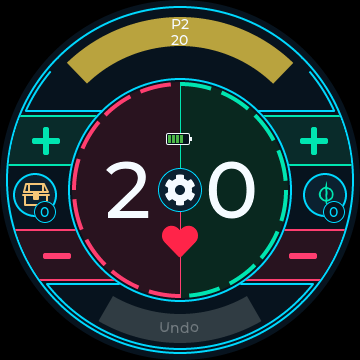
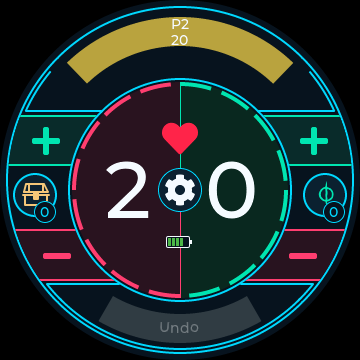
Refine name keyboard and personalize multiplayer life face

Changed region(s): [[0.4278, 0.6111, 0.55, 0.7333], [0.4278, 0.3361, 0.55, 0.4278]]

diff --git a/tests/ui_tests.cpp b/tests/ui_tests.cpp
@@ -44,7 +44,7 @@ lv_obj_t* find(lv_obj_t* parent,const std::string& text) {
 void click(const std::string& text) {
  tick();auto* target=find(lv_screen_active(),text);auto* wedgeLabel=(text.size()==2&&text[0]=='P'&&text[1]>='2'&&text[1]<='6')?target:nullptr;check(target!=nullptr,"missing label: "+text);auto* labelTarget=target;bool wedge=target==wedgeLabel||text=="New Game"||text=="Flip Coin"||text=="Roll"||text=="End Game"||text=="Brightness";
  while(target && !lv_obj_check_type(target,&lv_button_class))target=lv_obj_get_parent(target);
- check(target!=nullptr,"no button for: "+text);wedge=wedge||((lv_obj_get_width(target)==300||lv_obj_get_width(target)==326)&&lv_obj_get_height(target)==lv_obj_get_width(target));
+ check(target!=nullptr,"no button for: "+text);wedge=wedge||((lv_obj_get_width(target)==300||lv_obj_get_width(target)==326||lv_obj_get_width(target)==340)&&lv_obj_get_height(target)==lv_obj_get_width(target));
  lv_obj_scroll_to_view_recursive(target,LV_ANIM_OFF);lv_obj_update_layout(lv_screen_active());tick();
  lv_area_t a;lv_obj_get_coords(wedge?labelTarget:target,&a);int x=(a.x1+a.x2)/2,y=(a.y1+a.y2)/2;
  check(x>=0&&x<size&&y>=0&&y<size,"offscreen button: "+text);
@@ -57,6 +57,7 @@ lv_obj_t* labelAt(lv_obj_t* parent,int x,int y) {
 void checkDeath(const std::string& reason) {
  auto* skull=find(lv_screen_active(),"\xef\x95\x8c");auto* explanation=find(lv_screen_active(),reason);
  check(skull&&explanation,"skull and defeat reason present");
+ lv_area_t marker;lv_obj_get_coords(skull,&marker);check(marker.y1==120&&marker.y2<168,"skull uses the new upper heart position");
  check(lv_color_eq(lv_obj_get_style_text_color(skull,0),lv_color_white())&&lv_color_eq(lv_obj_get_style_text_color(explanation,0),lv_color_white()),"skull and reason are white");
 }
 void clickAt(int x,int y) {hardware.setTouch({x,y,true});tick(5);hardware.setTouch({x,y,false});tick(5);}
@@ -210,14 +211,14 @@ int main() {
  std::vector<uint32_t> previousBattery;int previousBand=-1;
  for(unsigned percent: {0u,5u,6u,20u,21u,40u,41u,60u,61u,80u,81u,100u}) {
   hardware.setBattery(percent);tick();
-  std::vector<uint32_t> indicator;for(int y=133;y<145;++y)for(int x=166;x<192;++x)indicator.push_back(pixels[y*size+x]);
+  std::vector<uint32_t> indicator;for(int y=236;y<248;++y)for(int x=166;x<192;++x)indicator.push_back(pixels[y*size+x]);
   int band=percent<=5?0:percent<=20?1:percent<=40?2:percent<=60?3:percent<=80?4:5;
   if(previousBand>=0)check((indicator==previousBattery)==(band==previousBand),"battery renders correct threshold transitions");
   previousBattery=indicator;previousBand=band;
   screenshot(("ui-battery-"+std::to_string(percent)+".bmp").c_str());
  }
  hardware.setBattery(50,true);tick();screenshot("ui-battery-charging.bmp");
- clickAt(180,139);check(game.player().life==41,"battery overlay leaves underlying life touch active");
+ clickAt(180,242);check(game.player().life==41,"battery overlay leaves underlying life touch active");
  hardware.setBattery(75);tick();
  for(auto entry:std::vector<std::pair<const char*,std::int64_t>>{{"Classic",20},{"Brawl",25},{"Limited",20}}){
   game.endGame();ui.showStartup();tick(12);check(find(lv_screen_active(),"LIFE COUNTER")&&!find(lv_screen_active(),"COMMANDER LIFE COUNTER"),"startup title has no Commander prefix");
@@ -254,17 +255,20 @@ int main() {
  ProfileMemory profileMemory;mtg::DeviceProfile identity(&profileMemory);UIWire wire;mtg::Multiplayer networking(game,identity,wire);
  game.endGame();mtg::AppUI multiUI(game,hardware,device,random,&identity,&networking);app=&multiUI;tick(12);
  click("New game");screenshot("ui-arcana-mode.bmp");click("MULTI ARCANA");
- for(const char* key:{"A","L","I","C","E"})click(key);check(find(lv_screen_active(),"ALICE"),"name keyboard composes a name");screenshot("ui-name-keyboard.bmp");click("OK");
+ for(char character:std::string("ABCDEFGHIJKLMNOPQRSTUVWXYZ")){click(std::string(1,character));auto* entered=labelAt(lv_screen_active(),180,96);check(entered&&std::string(lv_label_get_text(entered))==std::string(1,character),"all curved letter keys are reachable");click("DEL");}
+ click("123");for(char character:std::string("0123456789-_")){click(std::string(1,character));auto* entered=labelAt(lv_screen_active(),180,96);check(entered&&std::string(lv_label_get_text(entered))==std::string(1,character),"all curved symbol keys are reachable");click("DEL");}screenshot("ui-name-symbol-keyboard.bmp");click("ABC");
+ click("A");click("SP");click("B");check(find(lv_screen_active(),"A B"),"curved space key inserts a space");click("DEL");click("DEL");click("DEL");
+ for(const char* key:{"A","L","I","C","E"})click(key);check(find(lv_screen_active(),"ALICE"),"name keyboard composes a name");screenshot("ui-name-keyboard.bmp");auto* changeLabel=find(lv_screen_active(),"CHANGE");lv_area_t changeArea;lv_obj_get_coords(lv_obj_get_parent(changeLabel),&changeArea);check(changeArea.y1>=300&&changeArea.y2<335,"CHANGE is an inset bottom button");auto* backLabel=find(lv_screen_active(),"Back");lv_area_t backArea;lv_obj_get_coords(lv_obj_get_parent(backLabel),&backArea);check(backArea.y1==136&&backArea.y2==223,"Back remains centered in its original circle");check(!find(lv_screen_active(),"YOUR NAME"),"OK replaces the old name heading");click("CHANGE");check(find(lv_screen_active(),"Enter your name")&&identity.name().empty(),"CHANGE clears only the unsaved draft");for(const char* key:{"A","L","I","C","E"})click(key);click("OK");check(find(lv_screen_active(),"Host"),"top OK confirms the name");
  mtg::DeviceProfile rebooted(&profileMemory);check(rebooted.load()&&rebooted.name()=="ALICE"&&rebooted.id()==identity.id(),"saved name survives a new profile reader");screenshot("ui-host-join.bmp");click("Join");check(find(lv_screen_active(),"Refresh"),"join opens discovery screen");
  using Json=nlohmann::json;const std::string bobId(32,'b');
  wire.incoming.push_back({"remote",Json{{"v",1},{"t","advert"},{"game","bob-game"},{"name","BOB"},{"format",0},{"capacity",4},{"joined",1},{"started",false}}.dump()});tick(12);check(find(lv_screen_active(),"BOB"),"host name appears in browser");screenshot("ui-discovered-games.bmp");click("BOB");
  auto networkState=[&](unsigned seq,bool started,int bobLife){return Json{{"v",1},{"t","state"},{"game","bob-game"},{"seq",seq},{"format",0},{"capacity",4},{"started",started},{"members",Json::array({Json{{"id",bobId},{"name","BOB"},{"seat",1},{"life",bobLife},{"counters",std::array<int,8>{}},{"ack",0},{"online",true}},Json{{"id",identity.id()},{"name","ALICE"},{"seat",2},{"life",40},{"counters",std::array<int,8>{}},{"ack",0},{"online",true}}})}}.dump();};
  wire.incoming.push_back({"remote",networkState(1,false,40)});tick(12);check(find(lv_screen_active(),"Waiting"),"joined guest waits for host start");screenshot("ui-network-lobby.bmp");
- wire.incoming.push_back({"remote",networkState(2,true,40)});tick(12);check(find(lv_screen_active(),"BOB")&&!find(lv_screen_active(),"P2"),"registered name replaces player number");screenshot("ui-multi-home.bmp");
+ wire.incoming.push_back({"remote",networkState(2,true,40)});tick(12);check(find(lv_screen_active(),"BOB")&&!find(lv_screen_active(),"P2"),"registered name replaces player number");auto* ownName=labelAt(lv_screen_active(),180,112);check(ownName&&std::string(lv_label_get_text(ownName))=="ALICE","own saved name appears above the upper icon in Multi");screenshot("ui-multi-home.bmp");
  click("BOB");check(find(lv_screen_active(),"Synced"),"remote player life is read-only");rotate(5);check(game.player().life==40&&networking.opponents()[0].life==40,"guest cannot edit another player's life");
  wire.incoming.push_back({"remote",networkState(3,true,32)});tick(12);check(find(lv_screen_active(),"32"),"remote life refreshes in player menu");screenshot("ui-multi-opponent.bmp");click("Back");
  click(LV_SYMBOL_SETTINGS);click("New Game");click("Yes");click("SINGLE ARCANA");click("Commander");click("Confirm");check(identity.name()=="ALICE"&&!networking.attached(),"new single game preserves identity and leaves network");
- click(LV_SYMBOL_SETTINGS);click("New Game");click("Yes");click("MULTI ARCANA");check(find(lv_screen_active(),"ALICE"),"name entry remembers saved name");click("OK");click("Host");click("Classic");click("Confirm");check(networking.hosting()&&find(lv_screen_active(),"Start game"),"host configures a real lobby");click("Start game");check(networking.started()&&find(lv_screen_active(),"P2"),"host starts with one device and displays an open slot");click("P2");check(find(lv_screen_active(),"Open slot"),"unclaimed peer has a clear placeholder screen");click("+");check(networking.opponents()[0].life==21&&game.player().life==20,"host tracks a player without an Arcana");screenshot("ui-open-network-slot.bmp");click("Back");
+ click(LV_SYMBOL_SETTINGS);click("New Game");click("Yes");click("MULTI ARCANA");check(find(lv_screen_active(),"ALICE"),"name entry remembers saved name");click("CHANGE");check(identity.name()=="ALICE","CHANGE preserves the previously saved name");for(const char* key:{"A","L","I","C","E"})click(key);click("OK");click("Host");click("Classic");click("Confirm");check(networking.hosting()&&find(lv_screen_active(),"Start game"),"host configures a real lobby");click("Start game");check(networking.started()&&find(lv_screen_active(),"P2"),"host starts with one device and displays an open slot");click("P2");check(find(lv_screen_active(),"Open slot"),"unclaimed peer has a clear placeholder screen");click("+");check(networking.opponents()[0].life==21&&game.player().life==20,"host tracks a player without an Arcana");screenshot("ui-open-network-slot.bmp");click("Back");
  wire.incoming.push_back({"visitor",Json{{"v",1},{"t","find"}}.dump()});tick();std::string hostedId;for(const auto& packet:wire.sent){auto value=Json::parse(packet.data);if(value["t"]=="advert")hostedId=value["game"].get<std::string>();}check(!hostedId.empty(),"host advertises its lobby");
  wire.incoming.push_back({"guest",Json{{"v",1},{"t","join"},{"game",hostedId},{"id",std::string(32,'c')},{"name","CAROL"}}.dump()});tick(12);check(find(lv_screen_active(),"CAROL")&&!find(lv_screen_active(),"P2")&&game.player().life==20&&networking.opponents()[0].life==21,"late join replaces the placeholder while preserving tracked HP");screenshot("ui-late-joined-player.bmp");
  lv_deinit();std::cout<<"All round-screen counter interaction checks passed\n";

diff --git a/src/ui/AppUIMultiplayer.cpp b/src/ui/AppUIMultiplayer.cpp
@@ -1,16 +1,31 @@
 #include "AppUI.hpp"
 #include "Widgets/DialWidgets.hpp"
 #include <algorithm>
+#include <cmath>
 namespace mtg {
 using namespace widgets;
 void AppUI::buildMultiplayer(){
  if(view_==View::ArcanaMode){auto* single=radialSector("SINGLE ARCANA",0,2,SingleArcana,0,0x246e88,ToolIcon::Shield);auto* multi=radialSector("MULTI ARCANA",1,2,MultiArcana,0,0x159870,ToolIcon::LifeLink);for(auto* tile:{single,multi}){auto* caption=lv_obj_get_child(tile,1);lv_obj_set_x(caption,60);lv_obj_set_width(caption,180);}}
  else if(view_==View::NameSetup){
   auto* top=radialSector("",0,2,NoAction,0,0x246e88,ToolIcon::LifeLink);lv_obj_clean(top);auto* lower=radialSector("",1,2,NoAction,0,0x16483e,ToolIcon::LifeLink);lv_obj_clean(lower);
-  label(screen_,"YOUR NAME",100,51,160,&lv_font_montserrat_14,ink);value_=label(screen_,"",75,86,210,&lv_font_montserrat_20,ink);hint_=label(screen_,"",75,116,210,&lv_font_montserrat_14,ink);
+  auto* ok=button(screen_,"OK",120,43,120,32,NameConfirm,0,0x00b981);lv_obj_set_style_radius(ok,16,0);lv_obj_set_style_pad_all(ok,0,0);lv_obj_set_style_border_color(ok,lv_color_hex(0x60ffd4),0);auto* okText=lv_obj_get_child(ok,0);lv_obj_set_style_text_font(okText,&lv_font_montserrat_20,0);lv_obj_set_size(okText,LV_SIZE_CONTENT,lv_font_montserrat_20.line_height);lv_obj_center(okText);
+  value_=label(screen_,"",75,86,210,&lv_font_montserrat_20,ink);hint_=label(screen_,"",75,116,210,&lv_font_montserrat_14,ink);
   const std::string rows[3]={nameSymbols_?"1234567890":"QWERTYUIOP",nameSymbols_?"-_":"ASDFGHJKL",nameSymbols_?"":"ZXCVBNM"};
-  for(unsigned r=0;r<3;++r){int width=static_cast<int>(rows[r].size())*24-3,x=(360-width)/2;for(unsigned c=0;c<rows[r].size();++c){auto* key=button(screen_,std::string(1,rows[r][c]),x+24*c,232+23*r,21,21,NameKey,static_cast<unsigned>(rows[r][c]),0x163747);lv_obj_set_style_pad_all(key,0,0);auto* glyph=lv_obj_get_child(key,0);lv_obj_set_width(glyph,LV_SIZE_CONTENT);lv_obj_center(glyph);}}
-  auto* toggle=button(screen_,nameSymbols_?"ABC":"123",92,305,41,22,NameSymbols,0,0x163747);auto* space=button(screen_,"SP",137,305,41,22,NameSpace,0,0x163747);auto* del=button(screen_,"DEL",182,305,41,22,NameDelete,0,0x163747);auto* save=button(screen_,"OK",227,305,41,22,NameConfirm,0,0x166853);for(auto* b:{toggle,space,del,save})lv_obj_set_style_pad_all(b,0,0);
+  // A large radius produces a shallow bow instead of a semicircle.
+  for(unsigned r=0;r<2;++r){auto count=rows[r].size();double half=count?27.0*(count-1)/2:0;
+   for(unsigned c=0;c<count;++c){double dx=27.0*c-half,y=238+26*r-(380-std::sqrt(380.0*380.0-dx*dx));int size=24+r;
+    auto* key=button(screen_,std::string(1,rows[r][c]),static_cast<int>(std::round(180+dx-size/2.0)),static_cast<int>(std::round(y-size/2.0)),size,20,NameKey,static_cast<unsigned>(rows[r][c]),0x163747);lv_obj_set_style_pad_all(key,0,0);lv_obj_set_style_radius(key,7,0);auto* glyph=lv_obj_get_child(key,0);lv_obj_set_width(glyph,LV_SIZE_CONTENT);lv_obj_center(glyph);
+   }
+  }
+  // Retain letter/Space positions; lift the outer editing controls beside Back.
+  unsigned count=static_cast<unsigned>(rows[2].size())+3;int total=static_cast<int>(rows[2].size())*23+3*32+3*(count-1),x=(360-total)/2;
+  for(unsigned c=0;c<count;++c){bool control=c==0||c>=count-2;int width=control?32:23;double dx=x+width/2.0-180,y=288-(380-std::sqrt(380.0*380.0-dx*dx));
+   std::string title;Action action;unsigned arg=0;
+   if(c==0){title=nameSymbols_?"ABC":"123";action=NameSymbols;}else if(c==count-2){title="SP";action=NameSpace;}else if(c==count-1){title="DEL";action=NameDelete;}else{title=std::string(1,rows[2][c-1]);action=NameKey;arg=static_cast<unsigned>(rows[2][c-1]);}
+   auto* key=button(screen_,title,x,static_cast<int>(std::round(y-10)),width,20,action,arg,0x163747);lv_obj_set_style_pad_all(key,0,0);lv_obj_set_style_radius(key,7,0);auto* glyph=lv_obj_get_child(key,0);lv_obj_set_width(glyph,LV_SIZE_CONTENT);lv_obj_center(glyph);if(action==NameSymbols)lv_obj_set_pos(key,102,193);else if(action==NameDelete)lv_obj_set_pos(key,226,193);x+=width+3;
+  }
+  auto* change=button(screen_,"CHANGE",126,303,108,25,NameChange,0,0x0b2130);lv_obj_set_style_pad_all(change,0,0);lv_obj_set_style_border_color(change,lv_color_hex(teal),0);lv_obj_set_style_radius(change,12,0);lv_obj_set_style_text_color(lv_obj_get_child(change,0),lv_color_hex(teal),0);
+
  }else if(view_==View::HostJoin){
   radialSector("Host",0,2,HostGame,0,0x246e88,ToolIcon::LifeLink);radialSector("Join",1,2,FindGames,0,0x159870,ToolIcon::Plus);
   hint_=label(screen_,"",84,116,192,&lv_font_montserrat_14,ink);

diff --git a/src/ui/AppUI.hpp b/src/ui/AppUI.hpp
@@ -20,7 +20,7 @@ public:
  void redo() { handle(Redo,0); }
 private:
  enum class View { Startup, ArcanaMode, NameSetup, HostJoin, BrowseGames, NetworkLobby, FormatSelect, PlayerSetup, EndConfirm, Gear, Brightness, ResetConfirm, CoinResult, RollResult, CounterPicker, Home, Menu, Counter, Sources, Damage, Commanders, Casts, Profiles, Status, History, Rename, AddSource, Threshold };
- enum Action { SingleArcana,MultiArcana,NameKey,NameDelete,NameSpace,NameSymbols,NameConfirm,HostGame,FindGames,JoinGame,RefreshGames,NextGames,StartNetwork, ToggleRecipient, ChooseFormat, NoAction, OpenBrightness, ToolBack, SideStep, OpenPicker, ChooseShortcut, RecentUndo, OpenGear, AskReset, ResetYes, ResetNo, FlipCoin, RollD20, NewGame, ContinueGame, ConfirmPlayers, SelectPlayer, CycleSource, CloseDial, RequestEnd, FinishGame, CancelEnd, Back, Menu, Minus, Plus, OpenCounter, OpenSources, OpenOwn, OpenProfiles, OpenStatus,
+ enum Action { SingleArcana,MultiArcana,NameKey,NameChange,NameDelete,NameSpace,NameSymbols,NameConfirm,HostGame,FindGames,JoinGame,RefreshGames,NextGames,StartNetwork, ToggleRecipient, ChooseFormat, NoAction, OpenBrightness, ToolBack, SideStep, OpenPicker, ChooseShortcut, RecentUndo, OpenGear, AskReset, ResetYes, ResetNo, FlipCoin, RollD20, NewGame, ContinueGame, ConfirmPlayers, SelectPlayer, CycleSource, CloseDial, RequestEnd, FinishGame, CancelEnd, Back, Menu, Minus, Plus, OpenCounter, OpenSources, OpenOwn, OpenProfiles, OpenStatus,
   OpenHistory, Undo, Redo, Apply, Mode, NewSource, CreateSource, NewOwn, NewTurn, Rename,
   Append, Delete, SaveName, Limit, ToggleCounter, Source, Own, ToggleStatus, Day };
  struct Binding { AppUI* ui; Action action; std::uint32_t arg; double sectorStart=0,sectorSpan=0; };

diff --git a/simulator/main.cpp b/simulator/main.cpp
@@ -73,7 +73,7 @@ int main(int argc,char** argv) {
  mtg::LanTransport transport;mtg::Multiplayer multiplayer(game,profile,transport);
  mtg::FileStorage storage(std::filesystem::u8path(saveFile));mtg::SessionPersistence session(game,storage);persistence=&session;
  if(!session.load())std::cerr<<session.error()<<'\n';
- auto* window=SDL_CreateWindow("MTG Life Counter | Digital Twin 0.14.0",SDL_WINDOWPOS_CENTERED,SDL_WINDOWPOS_CENTERED,W,H,smoke?SDL_WINDOW_HIDDEN:SDL_WINDOW_SHOWN);
+ auto* window=SDL_CreateWindow("MTG Life Counter | Digital Twin 0.14.3",SDL_WINDOWPOS_CENTERED,SDL_WINDOWPOS_CENTERED,W,H,smoke?SDL_WINDOW_HIDDEN:SDL_WINDOW_SHOWN);
  if(!window) { std::cerr<<SDL_GetError();SDL_Quit();return 1; }
  renderer=SDL_CreateRenderer(window,-1,SDL_RENDERER_SOFTWARE);
  texture=renderer?SDL_CreateTexture(renderer,SDL_PIXELFORMAT_ARGB8888,SDL_TEXTUREACCESS_STREAMING,W,H):nullptr;
@@ -94,7 +94,7 @@ int main(int argc,char** argv) {
  text(root,"YOUR ARCANA SESSION",32,136,0x00d8ff);
  auto* stats=text(root,"",32,173);
  lv_obj_set_width(stats,216);lv_label_set_long_mode(stats,LV_LABEL_LONG_WRAP);
- text(root,"P1 life / named network peers\nApp 0.14.0 / SDL2",32,318,0x81a5b7);
+ text(root,"P1 life / named network peers\nApp 0.14.3 / SDL2",32,318,0x81a5b7);
  text(root,"INPUT",32,398,0x00d8ff);
  text(root,"Wheel / arrows: adjust\nTap a tracker to edit\nTab: trackers\nCtrl+Z / Y: undo / redo\nP: power / R: new game\nEsc: close",32,431);
  auto* bezel=lv_obj_create(root);lv_obj_set_pos(bezel,290,91);lv_obj_set_size(bezel,420,420);

diff --git a/src/ui/AppUIDial.cpp b/src/ui/AppUIDial.cpp
@@ -138,12 +138,16 @@ void AppUI::buildDial() {
   }
   auto* upper=box(screen_,180,82,1,108,teal);lv_obj_remove_flag(upper,LV_OBJ_FLAG_CLICKABLE);
   auto* lower=box(screen_,180,190,1,108,red);lv_obj_remove_flag(lower,LV_OBJ_FLAG_CLICKABLE);
-  battery_=box(screen_,166,132,28,14,background);lv_obj_set_style_bg_opa(battery_,0,0);lv_obj_remove_flag(battery_,LV_OBJ_FLAG_CLICKABLE);
+  battery_=box(screen_,166,235,28,14,background);lv_obj_set_style_bg_opa(battery_,0,0);lv_obj_remove_flag(battery_,LV_OBJ_FLAG_CLICKABLE);
   value_=label(screen_,"4",94,161,68,&life_digits,ink);
   lifeRight_=label(screen_,"0",198,161,68,&life_digits,ink);
   lifeSegments(screen_);
   arc(screen_,224,78,0,360,violet,2);
-  lifeMarker_=heart(screen_,162,223);
+  lifeMarker_=heart(screen_,162,120);
+  if(networkFace()){
+   const auto& name=profile_->name();const auto* font=lv_text_get_width(name.c_str(),static_cast<uint32_t>(name.size()),&lv_font_montserrat_14,0)>128?&tab_font:&lv_font_montserrat_14;
+   label(screen_,name,92,104,176,font,ink);
+  }
   status_=label(screen_,"",95,260,170,&lv_font_montserrat_14,teal);
   lv_label_set_long_mode(status_,LV_LABEL_LONG_WRAP);lv_obj_set_height(status_,34);
   partialDividers();

diff --git a/src/ui/AppUI.cpp b/src/ui/AppUI.cpp
@@ -89,6 +89,7 @@ void AppUI::handle(Action action,std::uint32_t arg) {
   case SingleArcana:hostPending_=false;beginFormatSelection(View::ArcanaMode);break;
   case MultiArcana:nameDraft_=profile_->name();nameSymbols_=false;navigate(View::NameSetup);break;
   case NameKey:if(nameDraft_.size()<12)nameDraft_+=static_cast<char>(arg);break;
+  case NameChange:nameDraft_.clear();notice_.clear();break;
   case NameDelete:if(!nameDraft_.empty())nameDraft_.pop_back();break;
   case NameSpace:if(!nameDraft_.empty()&&nameDraft_.size()<12&&nameDraft_.back()!=' ')nameDraft_+=' ';break;
   case NameSymbols:nameSymbols_=!nameSymbols_;rebuild_=true;break;

diff --git a/README.md b/README.md
@@ -1,6 +1,6 @@
 # Arcana / MTG Life Counter
 
-**Version 0.14.0** - Windows digital twin, multi-format play and local-network multiplayer.
+**Version 0.14.3** - Windows digital twin, multi-format play and local-network multiplayer.
 
 A native Windows digital twin of a round 360 x 360 knob display, with a shared LVGL interface designed for eventual ESP32-S3 deployment. The app supports Commander, Classic, Commander 2HG, Brawl and Limited, with saved-match recovery and a touch/rotary interface.
 
@@ -20,6 +20,13 @@ The current implementation is a working Windows digital twin with portable game 
 | Startup | Player count | Main dial | Opponent damage |
 | --- | --- | --- | --- |
 | ![Startup](docs/previews/startup.png) | ![Setup](docs/previews/setup.png) | ![Life](docs/previews/watch-face.png) | ![Damage](docs/previews/ui-opponent.png) |
+
+## Latest UI updates
+
+- The name keyboard uses gentle curved rows. Green **OK** is above the name; **CHANGE** is an inset bottom button, and **Back** remains alone in the center.
+- **123/ABC** and **DEL** are positioned above the keys beside Back. CHANGE affects only the draft until OK confirms it.
+- The Multi Arcana main face shows your saved name above the heart. In every mode the **heart/skull is above the gear** and the **battery is below it**.
+- The watch-face, multiplayer and keyboard screenshots reflect these layouts. All eight test suites pass for version 0.14.3.
 
 ## Build and run on Windows
 
@@ -62,7 +69,7 @@ Startup offers **New game** and **Continue**. Continue is greyed out when there 
 
 New game opens a horizontally divided radial screen: **SINGLE ARCANA** above, **MULTI ARCANA** below, with Back in the middle. Single continues to the existing format/player setup.
 
-Multi opens name entry: the name appears above the central Back button and a compact QWERTY keyboard below it. `123` switches to digits/hyphen/underscore, `SP` adds a space, `DEL` deletes, and `OK` confirms. Names use 1-12 ASCII letters/digits/spaces/hyphen/underscore. The device profile stores both the name and a stable device ID independently from match saves, so new games and application shutdown never reset the name. Saving failure keeps the previous name.
+Multi opens name entry: the name appears above the central Back button and a compact QWERTY keyboard curved around it. Three shallow curved rows keep the letters upright and closer to a standard keyboard. A prominent green **OK button above the name** confirms it. Back stays alone in the black central circle. **CHANGE** sits in an inset bottom button below the keyboard; it clears the draft without overwriting the saved name until OK is pressed. The `123`/`ABC` toggle and `DEL` sit in the gaps above the keys, on either side of Back. `123` switches to digits/hyphen/underscore, `SP` adds a space, `DEL` deletes, and `OK` confirms. Names use 1-12 ASCII letters/digits/spaces/hyphen/underscore. The device profile stores both the name and a stable device ID independently from match saves, so new games and application shutdown never reset the name. Saving failure keeps the previous name.
 
 | Discovered games | Joined lobby | Live named face |
 | --- | --- | --- |
@@ -136,13 +143,13 @@ The main-face **Undo** reverses the entire group of game edits from the precedin
 
 ### Battery and brightness
 
-The horizontal battery icon sits opposite the heart across the gear center. It displays six bands: **0-5%, 6-20%, 21-40%, 41-60%, 61-80%, 81-100%**, plus charging and unknown states. The simulator uses an illustrative 75% reading; a hardware adapter must provide real telemetry. Battery-saving behavior and battery-runtime estimates are not implemented.
+The horizontal battery icon sits below the gear, mirrored against the heart above it in every life-face mode. Multi also displays your saved name above the upper heart/skull. The battery displays six bands: **0-5%, 6-20%, 21-40%, 41-60%, 61-80%, 81-100%**, plus charging and unknown states. The simulator uses an illustrative 75% reading; a hardware adapter must provide real telemetry. Battery-saving behavior and battery-runtime estimates are not implemented.
 
 **Brightness** is adjustable from **0-100%** by slider, +/- sectors or rotary input. The desktop previews it using display opacity; physical backlight control needs the hardware driver. Brightness is session-only. If set to 0%, clockwise encoder input raises it again.
 
 ## Gear menu
 
-The gear sits centrally between the two parts of the white life total, with a smooth red heart beneath it and no LIFE caption. The life title is omitted; the center divider is green above the gear and red below, matching the corresponding colored inner ring segments. It opens:
+The gear sits centrally between the two parts of the white life total, with the red heart above it, the battery below it and no LIFE caption. The life title is omitted; the center divider is green above the gear and red below, matching the corresponding colored inner ring segments. It opens:
 
 - **New Game:** asks Yes/No, then opens Single/Multi selection and the chosen setup flow. The current match is replaced only on Confirm; cancelling preserves it.
 - **Flip Coin:** shows a random Heads/Tails result, with Flip again and central Back.

diff --git a/docs/development.md b/docs/development.md
@@ -59,3 +59,13 @@ Version 0.13.0 lets Commander 2HG select 2-6 teams (4-12 players). Each setup st
 Version 0.14.0 adds Single/Multi radial selection, a compact name keyboard and independent atomic device profiles. Host/Join uses real LAN multicast discovery and passwordless admission. The host coordinates acknowledged life/counter deltas, retries, coalesced bursts, live named tiles, read-only remote views, shared 2HG life/poison and timeout/rejoin behavior. Eight suites include real sockets and independent host/client processes on dedicated test discovery ports 42689/42690, preserving normal lobbies on 42688. UI checks cover keyboard input, profile reload, discovered games, guest waiting, host start, named life updates, read-only peer editing and identity retention through a new single match. Live lobby recovery across host shutdown and ESP32 Wi-Fi drivers remain unimplemented.
 
 Hosting can start with fewer devices than configured, including one device and partial 2HG teams. The host retains explicit unclaimed seats, can manually edit their life, and broadcasts them as dim placeholders. Late arrivals claim a stable free seat and inherit its canonical life/counters without disturbing others; reconnecting identities retain their own seats. Protocol/UI checks cover starting 2/4, late team joins, placeholder replacement and manually tracked life transfer.
+
+Version 0.14.1 curves the name keyboard into three concentric rows around central Back, keeps letter glyphs upright, enlarges key caps, and gives OK a prominent green lower arc with an exact annular hit area. UI coverage exercises all 26 letters, digits and symbols, Space/Delete, the outside of the confirmation arc and its far edge.
+
+Version 0.14.2 flattens the keyboard into shallow circular rows, puts prominent green OK above the name, and places CHANGE alongside Back inside the black center. CHANGE clears only the draft; saving still requires OK. Existing all-letter/symbol touch checks remain, with new checks for preserved saved identity while changing the draft.
+
+The clarified 0.14.2 keyboard layout keeps Back alone in the black center and places CHANGE in an inset bottom footer. Compact shallow rows include editing controls in the final row, leaving space for the footer without pushing it against the outer edge.
+
+The name keyboard places 123/ABC and DEL in the gaps above the letter rows, symmetrically beside Back, preserving the existing letter and Space positions. Existing all-character touch checks validate both modes after the move.
+
+Version 0.14.3 shows the local saved name above the upper icon on the Multi life face and swaps heart/skull and battery positions in all life-face modes. Longer names use the compact font to fit the ring. UI checks cover the own-name caption, new battery bands/touch position and upper skull position.
